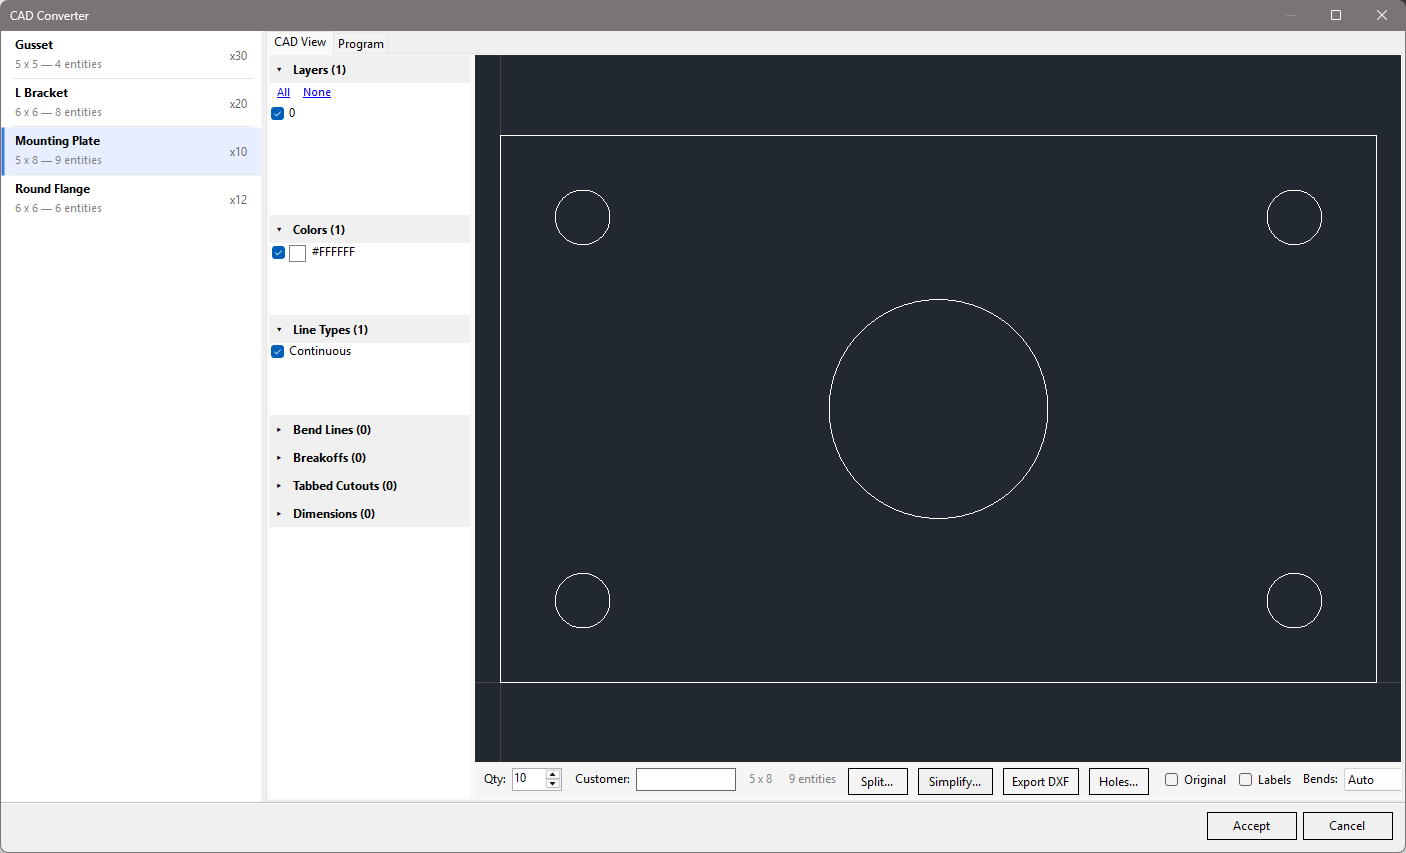
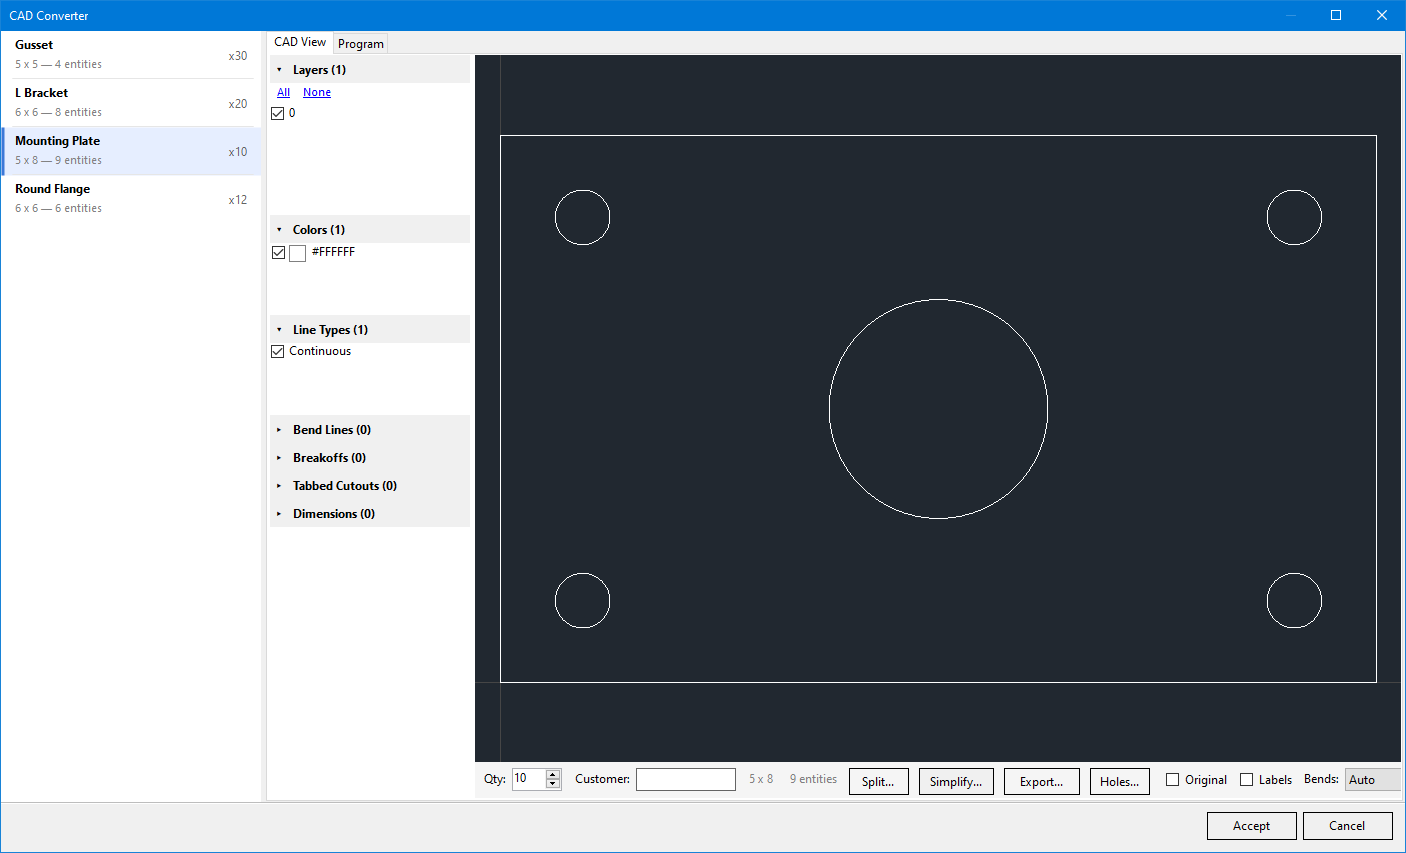
Follow the CAD Converter's Export... button
OpenNest renamed the converter's Export DXF button to Export... and now saves
DXF, DWG or SVG with layers and bend lines (direction, angle and radius notes)
that import reads back. The detail-bar item still told users it only wrote DXF,
and the Dimensions section only ruled out DXF files.

Recaptured the converter screen from OpenNest 45e7d6f1 so cad-converter.png
and first-nest-converter.png show the new label; the callout positions still fit.

diff --git a/docs/cad-converter.md b/docs/cad-converter.md
@@ -26,9 +26,11 @@ nest: what you see in the preview is what will be cut.
    drawing.
 7. **Split** cuts a part too big for your sheets into pieces. **Simplify** replaces
    runs of short lines with true arcs; when it finds some, the button shows how many,
-   for example **Simplify (3)**. **Export DXF** saves the drawing, as it is now, to a
-   new DXF file, or to an SVG file if you pick **SVG** as the file type. **Holes...**
-   opens the [hole table](#hole-table).
+   for example **Simplify (3)**. **Export...** saves the drawing, as it is now, to a
+   new file. Pick the file type in the save window: DXF (R14 through 2018), DWG (2004
+   through 2018) or SVG. The file keeps its layers and includes the bend lines with
+   notes for their direction, angle and radius, so if you import it again the bends
+   come back with it. **Holes...** opens the [hole table](#hole-table).
 8. **Original** shows the file's geometry as it was read, before any cleanup, faded
    behind the current drawing, so you can compare it with what will be cut. **Labels** numbers each entity. **Bends**
    chooses how bend lines are found in files you add from now on; **Auto** suits most
@@ -60,7 +62,7 @@ time.
 Dimensions show a part's sizes on the drawing while you check it. They're measured from
 the geometry that will be cut, so they follow along as you untick layers, exclude lines
 or simplify. They never change the part's program, and they don't appear on plates,
-reports or exported DXF files.
+reports or exported files (DXF, DWG or SVG).
 
 ![Mounting Plate with overall, diameter and radius dimensions](images/converter-dimensions.png)
 
